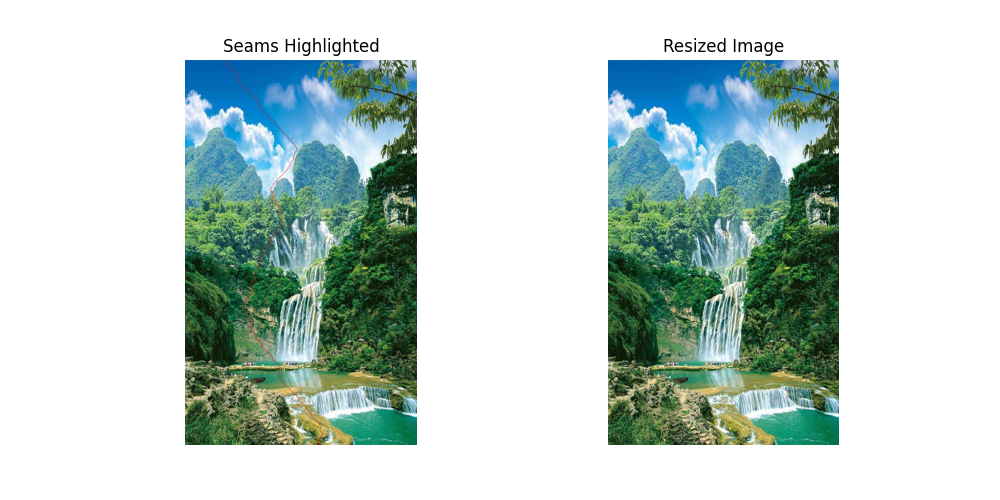
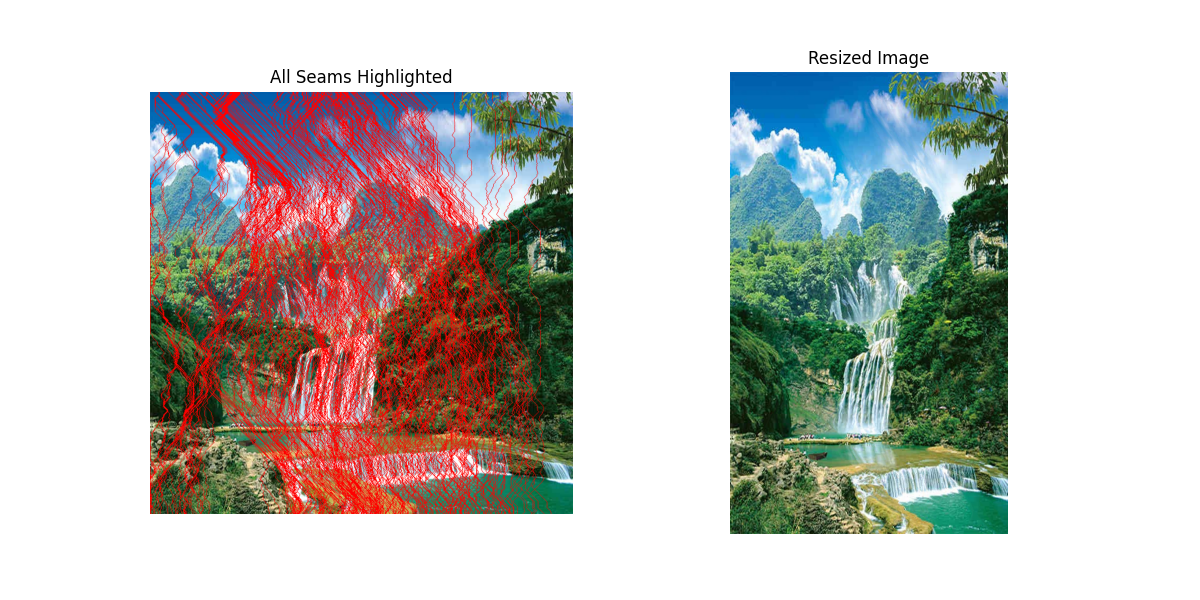
Add files via upload

diff --git a/Algorithm Optimized.py b/Algorithm Optimized.py
@@ -1,0 +1,91 @@
+import sys
+import numpy as np
+from imageio.v2 import imread, imwrite
+import matplotlib.pyplot as plt
+
+# Compute energy using finite differences (without predefined functions)
+def calculate_energy(image):
+    grayscale = np.dot(image[..., :3], [0.2989, 0.587, 0.114])  # Convert to grayscale
+    
+    # Compute |∂I/∂x| using forward difference
+    grad_x = np.abs(np.diff(grayscale, axis=1, append=grayscale[:, -1:]))
+    
+    # Compute |∂I/∂y| using forward difference
+    grad_y = np.abs(np.diff(grayscale, axis=0, append=grayscale[-1:, :]))
+    
+    return grad_x + grad_y
+
+# Optimized seam finding using NumPy vectorization
+def find_min_seam(energy_map):
+    rows, cols = energy_map.shape
+    cumulative_energy = energy_map.copy()
+    backtrack = np.zeros((rows, cols), dtype=np.int32)
+
+    for row in range(1, rows):
+        left = np.roll(cumulative_energy[row - 1], shift=1, axis=0)
+        right = np.roll(cumulative_energy[row - 1], shift=-1, axis=0)
+        left[0] = right[-1] = np.inf  # Boundary conditions
+
+        min_idx = np.argmin(np.stack([left, cumulative_energy[row - 1], right]), axis=0)
+        cumulative_energy[row] += np.choose(min_idx, [left, cumulative_energy[row - 1], right])
+        backtrack[row] = np.choose(min_idx, [np.arange(cols) - 1, np.arange(cols), np.arange(cols) + 1])
+
+    # Trace back the optimal seam path
+    seam_path = np.zeros(rows, dtype=np.int32)
+    seam_path[-1] = np.argmin(cumulative_energy[-1])
+
+    for row in range(rows - 2, -1, -1):
+        seam_path[row] = backtrack[row + 1, seam_path[row + 1]]
+
+    return seam_path
+
+# Efficiently remove a single seam
+def remove_column_seam(image, seam_mask, seam_path):
+    rows, cols, _ = image.shape
+    mask = np.ones((rows, cols), dtype=bool)
+
+    mask[np.arange(rows), seam_path] = False
+    seam_mask[np.arange(rows), seam_path] = [255, 0, 0]  # Highlight seam in red
+
+    return image[mask].reshape((rows, cols - 1, 3))
+
+# Seam carving function with batch seam removal
+def seam_carve_resize(image, scale_factor_width):
+    new_width = int(image.shape[1] * scale_factor_width)
+    num_seams = image.shape[1] - new_width
+    seam_mask = image.copy()
+
+    for _ in range(num_seams):
+        energy_map = calculate_energy(image)
+        seam_path = find_min_seam(energy_map)
+        image = remove_column_seam(image, seam_mask, seam_path)
+
+    return image, seam_mask
+
+# Main function
+def main(image_path, scale_factor_width, output_path="output_image.jpg"):
+    input_image = imread(image_path)
+    resized_image, marked_image = seam_carve_resize(input_image, scale_factor_width)
+
+    imwrite(output_path, resized_image)
+    imwrite("highlighted_seams.jpg", marked_image)
+
+    # Display the original and resized images with seam highlights
+    fig, ax = plt.subplots(1, 2, figsize=(12, 6))
+    ax[0].imshow(marked_image)
+    ax[0].set_title("All Seams Highlighted")
+    ax[0].axis("off")
+
+    ax[1].imshow(resized_image)
+    ax[1].set_title("Resized Image")
+    ax[1].axis("off")
+
+    plt.show()
+
+# Command-line interface
+if __name__ == '__main__':
+    if len(sys.argv) != 3:
+        print("Usage: python file.py <image_path> <scale_factor_width>")
+        sys.exit(1)
+
+    main(sys.argv[1], float(sys.argv[2]))
